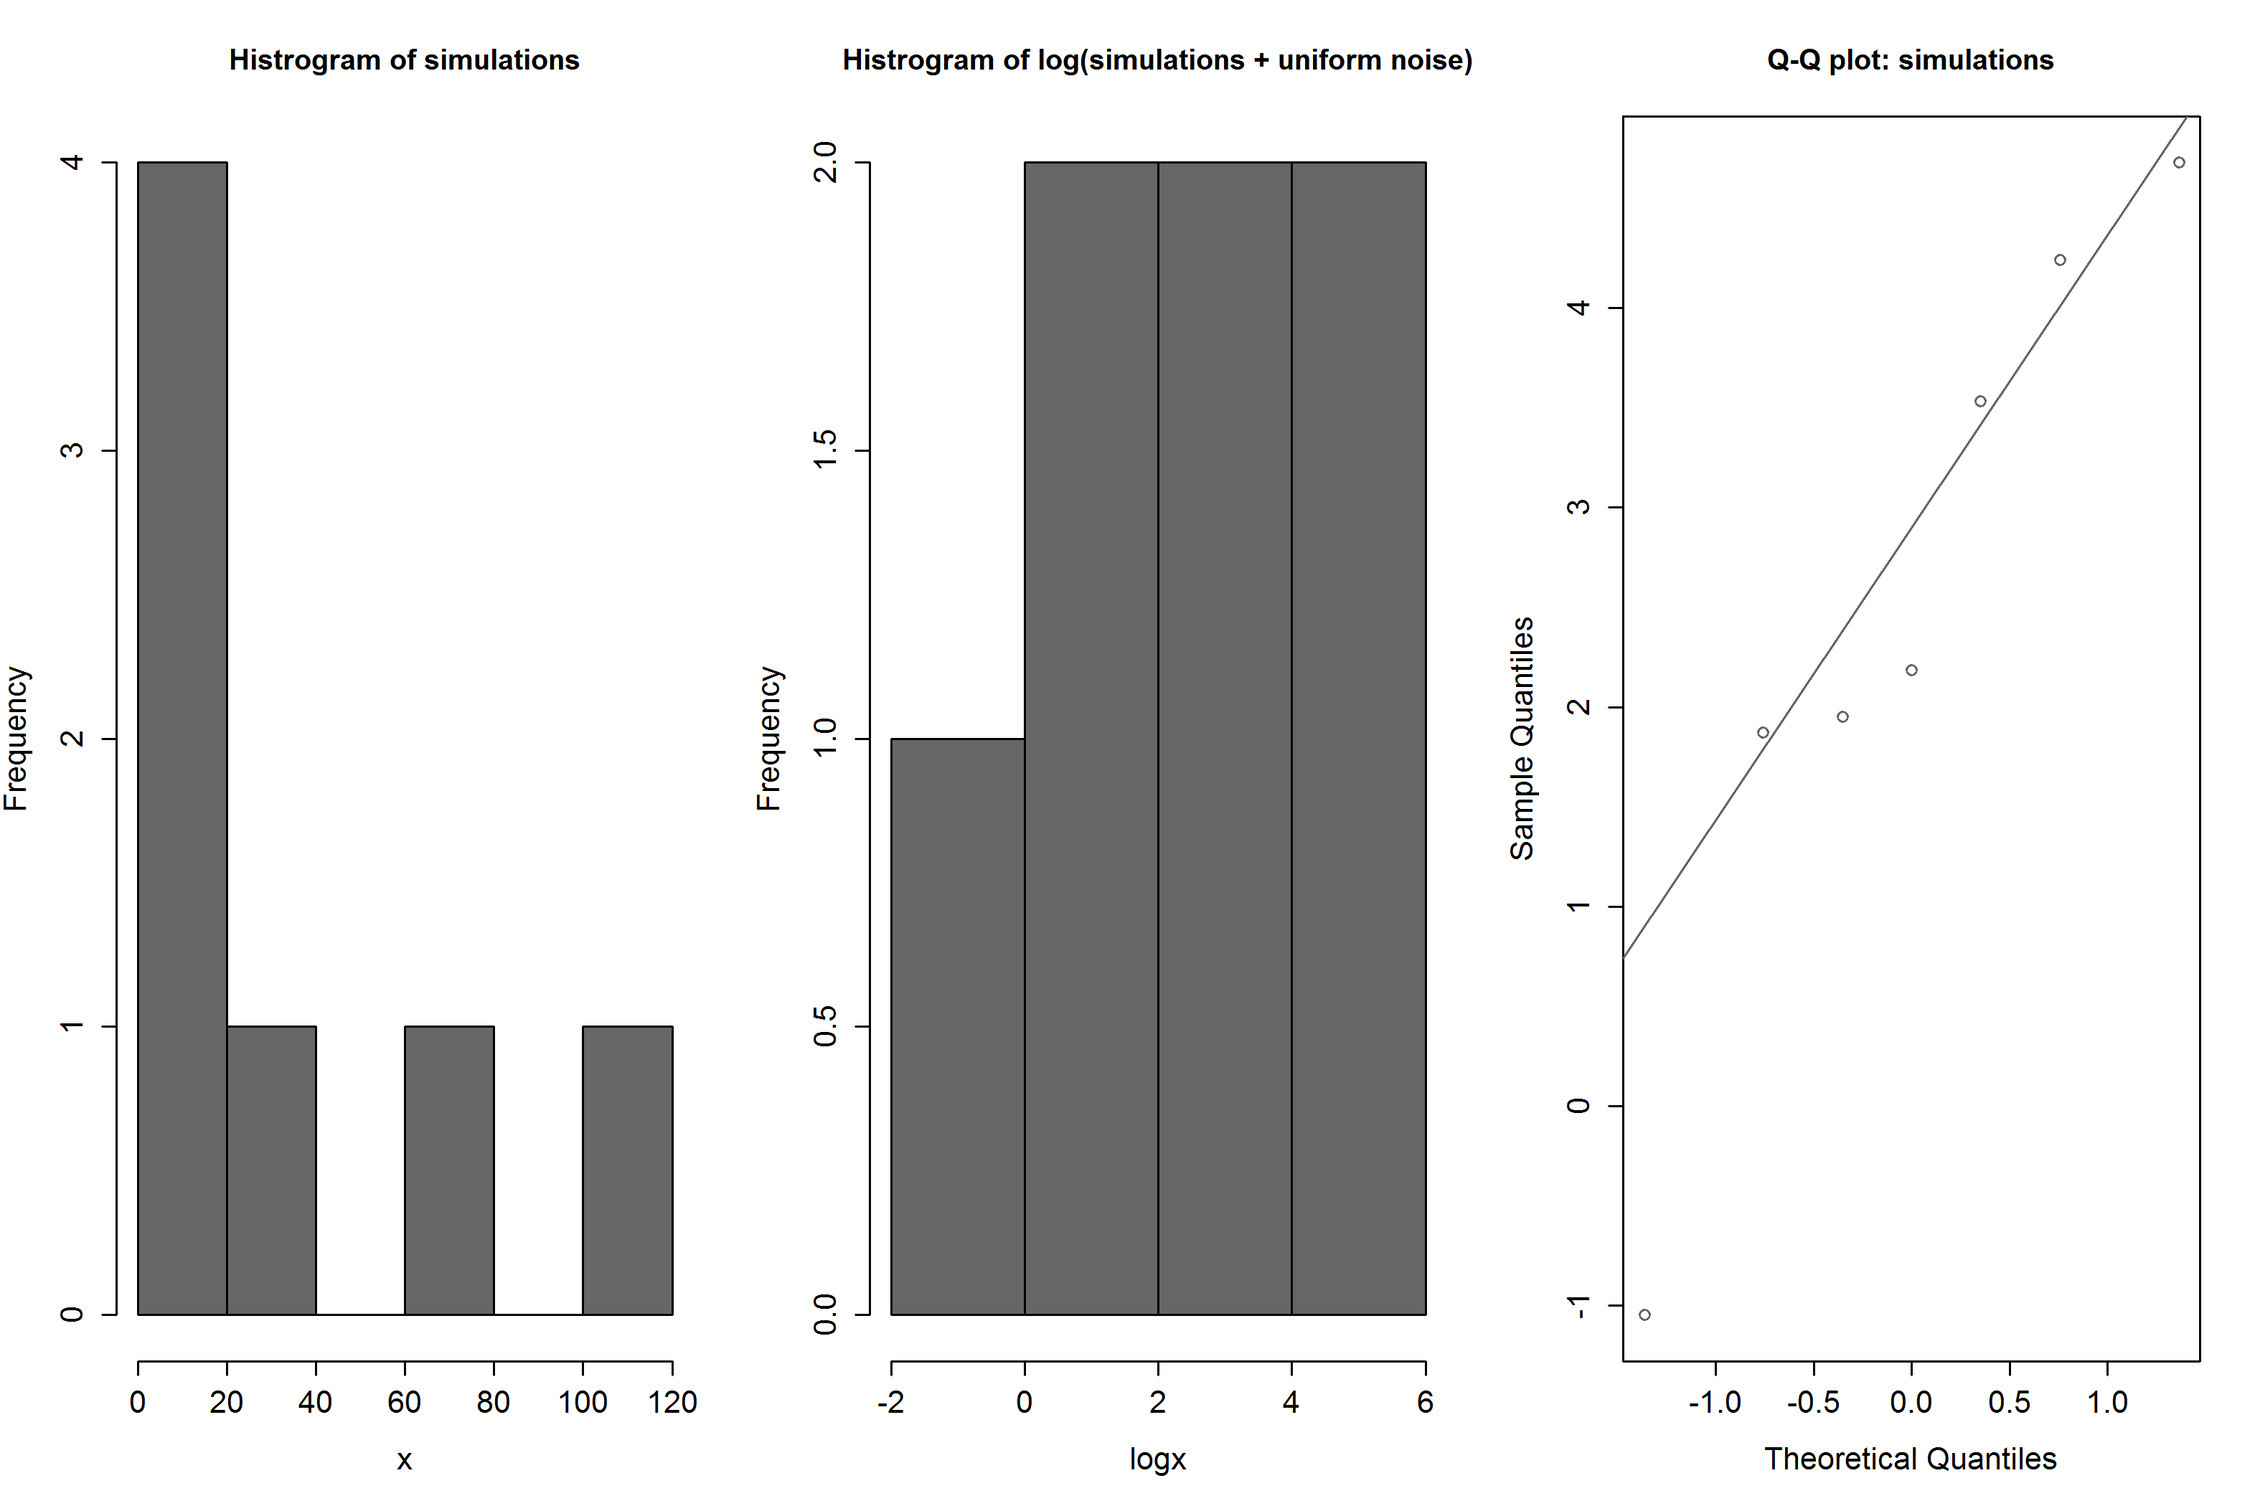
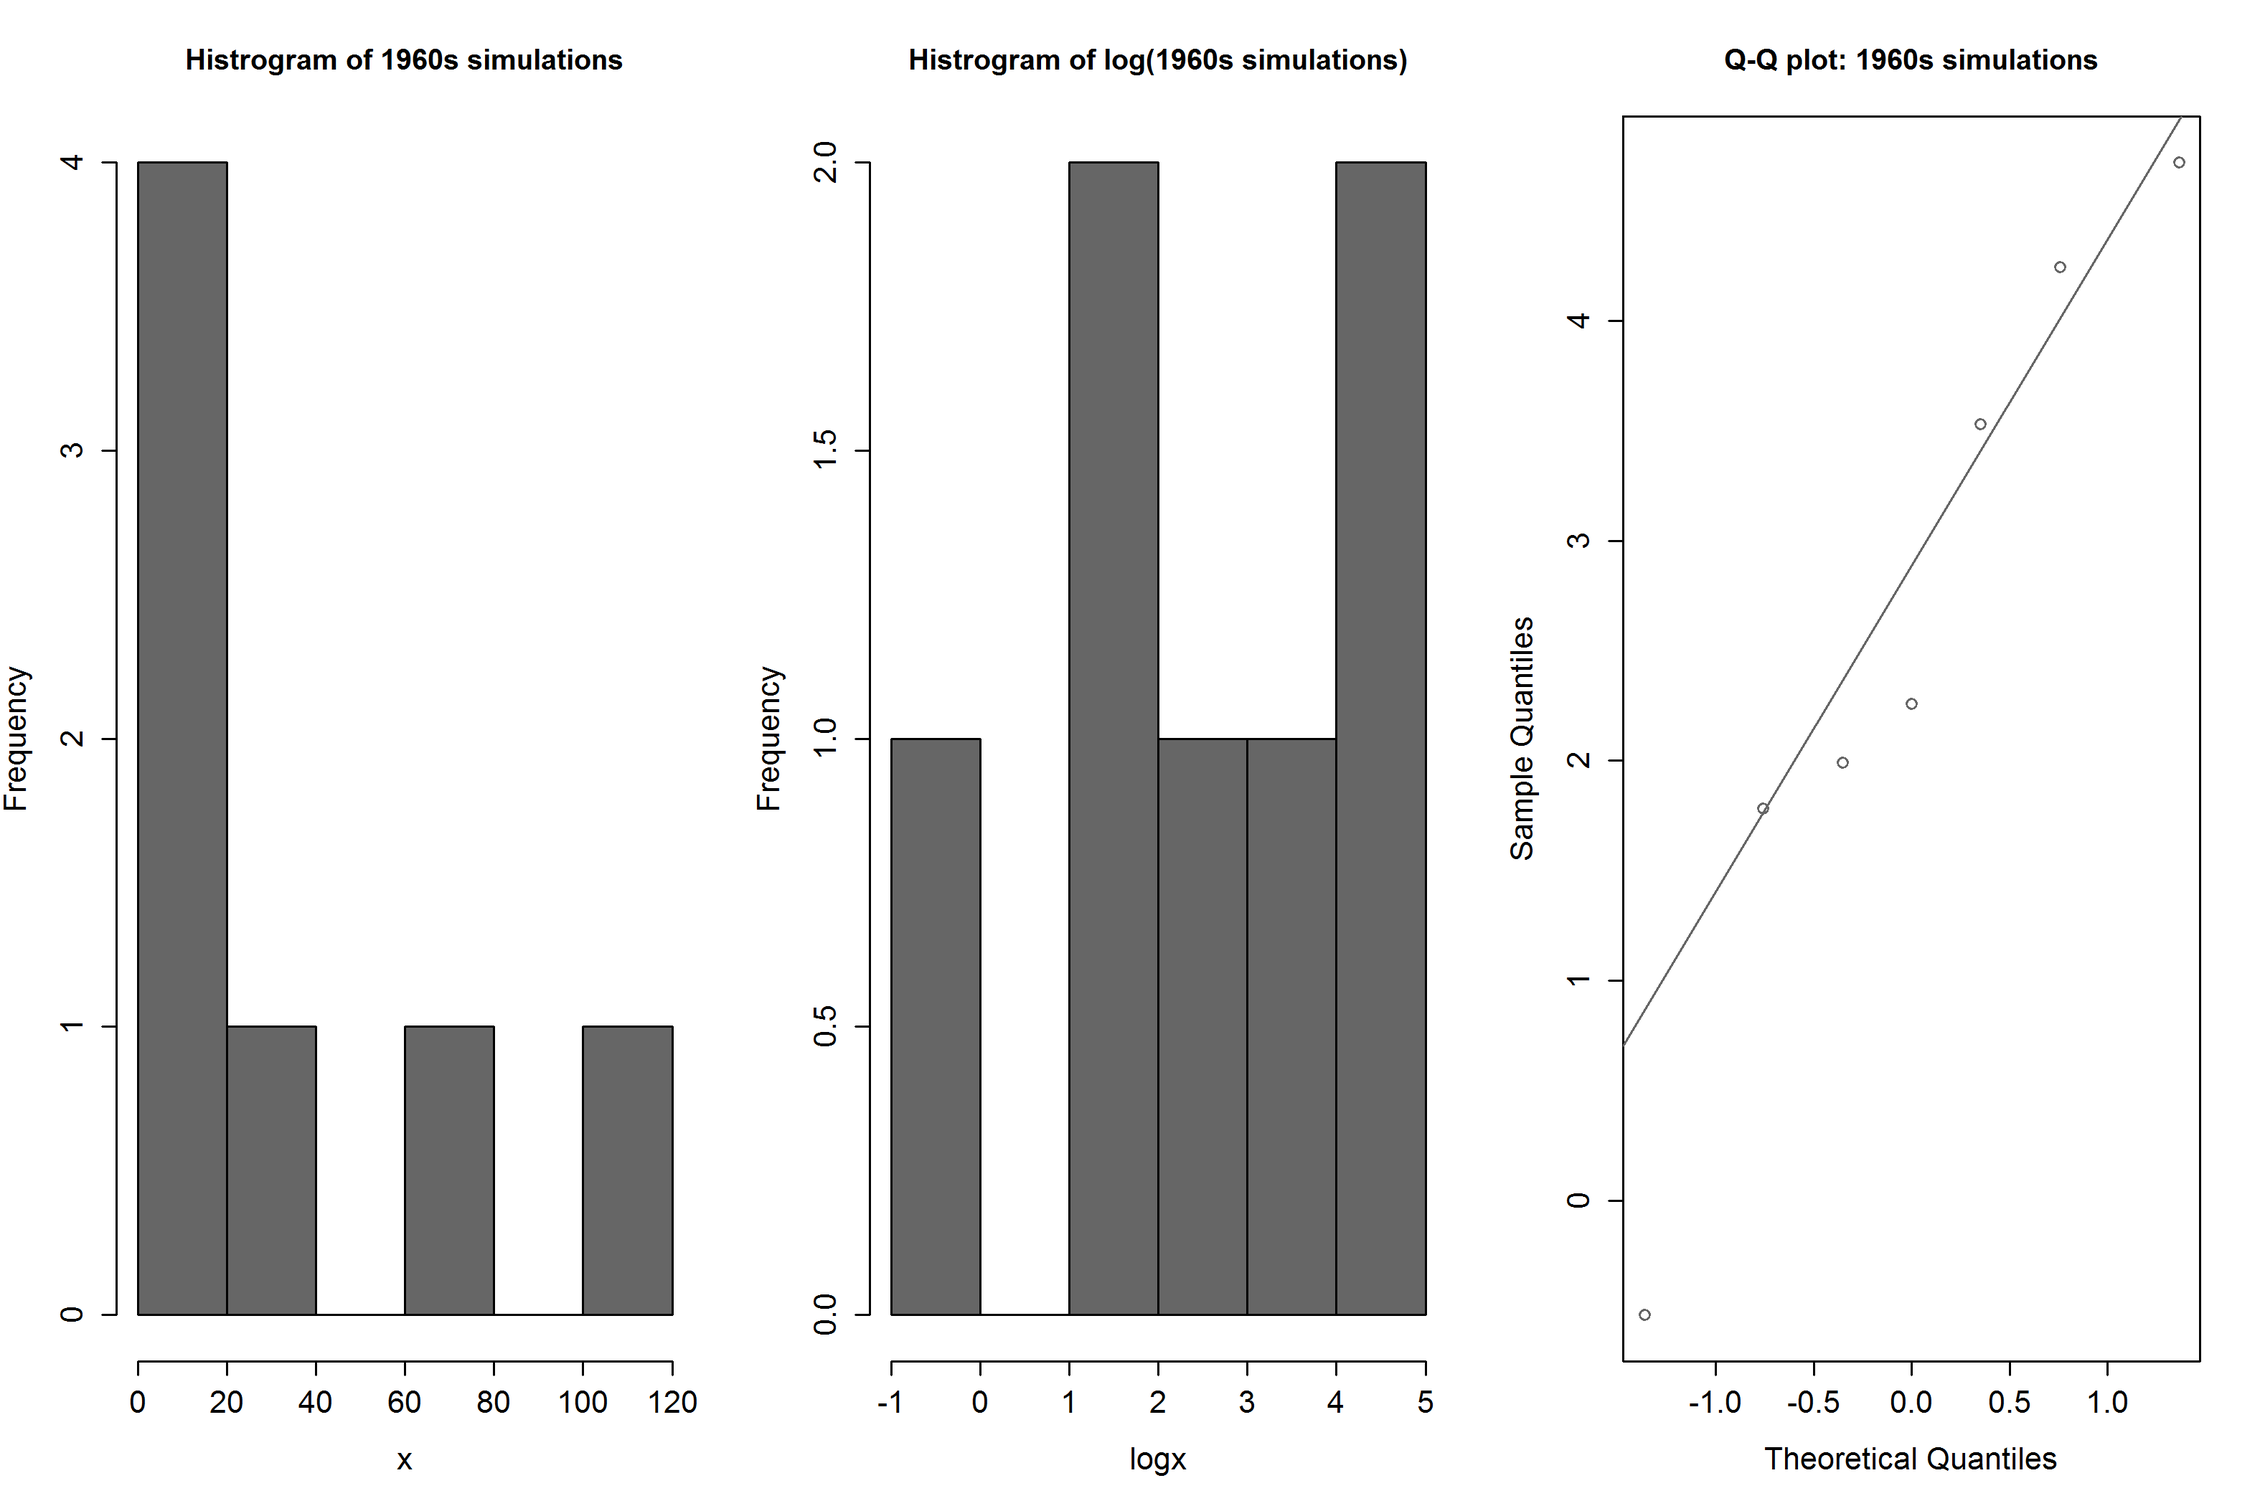
Update docs

diff --git a/fse_eda2.html b/fse_eda2.html
@@ -211,24 +211,23 @@ img {
 <h4>Function for log-normality assessment</h4>
 <pre class="sourceCode r"><code class="sourceCode r"><span class="co"># Functions to assess log-normality of fire size for observed data and a</span>
 <span class="co"># sample simulation replicate</span>
-check_lnorm &lt;-<span class="st"> </span>function(d, <span class="dt">nmax.ad.test =</span> <span class="dv">100</span>, <span class="dt">verbose =</span> <span class="ot">TRUE</span>, <span class="dt">closure =</span> <span class="ot">TRUE</span>, 
-    ...) {
+check_lnorm &lt;-<span class="st"> </span>function(d, <span class="dt">nmax.ad.test =</span> <span class="dv">100</span>, <span class="dt">verbose =</span> <span class="ot">FALSE</span>, <span class="dt">closure =</span> <span class="ot">TRUE</span>, 
+    <span class="dt">period =</span> <span class="st">&quot;1950-2009&quot;</span>, ...) {
     f &lt;-<span class="st"> </span>function() {
         <span class="kw">require</span>(<span class="st">&quot;nortest&quot;</span>)
         dl &lt;-<span class="st"> </span><span class="kw">split</span>(d$FSE, d$Replicate)
         if (<span class="kw">length</span>(dl) ==<span class="st"> </span><span class="dv">2</span>) 
             iters &lt;-<span class="st"> </span><span class="dv">1</span>:<span class="dv">2</span> else if (<span class="kw">names</span>(dl) ==<span class="st"> &quot;Observed&quot;</span>) 
             iters &lt;-<span class="st"> </span><span class="dv">1</span> else iters &lt;-<span class="st"> </span><span class="dv">2</span>
-        id &lt;-<span class="st"> </span><span class="kw">c</span>(<span class="st">&quot;observations&quot;</span>, <span class="st">&quot;simulations&quot;</span>)[iters]
+        id &lt;-<span class="st"> </span><span class="kw">paste</span>(period, <span class="kw">c</span>(<span class="st">&quot;observations&quot;</span>, <span class="st">&quot;simulations&quot;</span>))[iters]
         if (<span class="kw">length</span>(iters) ==<span class="st"> </span><span class="dv">1</span>) 
             iters &lt;-<span class="st"> </span><span class="dv">1</span>
         <span class="kw">layout</span>(<span class="kw">matrix</span>(<span class="dv">1</span>:(<span class="dv">3</span> *<span class="st"> </span><span class="kw">length</span>(iters)), <span class="kw">length</span>(iters), <span class="dt">byrow =</span> T))
         for (i in iters) {
             x &lt;-<span class="st"> </span>dl[[i]]
-            logx &lt;-<span class="st"> </span><span class="kw">log</span>(x +<span class="st"> </span><span class="kw">runif</span>(<span class="kw">length</span>(x), -<span class="fl">0.95</span>, <span class="fl">0.95</span>))
+            logx &lt;-<span class="st"> </span><span class="kw">log</span>(x +<span class="st"> </span><span class="kw">runif</span>(<span class="kw">length</span>(x), -<span class="fl">0.95</span>, <span class="fl">0.95</span>))  <span class="co"># Add uniform noise</span>
             <span class="kw">hist</span>(x, <span class="dt">main =</span> <span class="kw">paste</span>(<span class="st">&quot;Histrogram of&quot;</span>, id[i]), ...)
-            <span class="kw">hist</span>(logx, <span class="dt">main =</span> <span class="kw">paste0</span>(<span class="st">&quot;Histrogram of log(&quot;</span>, id[i], <span class="st">&quot; + uniform noise)&quot;</span>), 
-                ...)
+            <span class="kw">hist</span>(logx, <span class="dt">main =</span> <span class="kw">paste0</span>(<span class="st">&quot;Histrogram of log(&quot;</span>, id[i], <span class="st">&quot;)&quot;</span>), ...)
             <span class="kw">qqnorm</span>(logx, <span class="dt">main =</span> <span class="kw">paste</span>(<span class="st">&quot;Q-Q plot:&quot;</span>, id[i]), ...)
             <span class="kw">qqline</span>(logx, <span class="dt">main =</span> <span class="kw">paste</span>(<span class="st">&quot;Q-Q plot:&quot;</span>, id[i]), ...)
             if (verbose) {
@@ -244,7 +243,8 @@ check_lnorm &lt;-<span class="st"> </span>function(d, <span class="dt">nmax.ad.t
 check_lnorm_dec &lt;-<span class="st"> </span>function(id, d, dec, <span class="dt">i.offset =</span> <span class="dv">1</span>, ...) {
     for (i in <span class="dv">1</span>:<span class="kw">length</span>(dec)) {
         pid &lt;-<span class="st"> </span><span class="kw">paste0</span>(id, letters[i +<span class="st"> </span>i.offset])
-        <span class="kw">assign</span>(pid, <span class="kw">check_lnorm</span>(<span class="kw">subset</span>(d, Decade ==<span class="st"> </span>dec[i]), ...), <span class="dt">pos =</span> <span class="dv">1</span>)
+        <span class="kw">assign</span>(pid, <span class="kw">check_lnorm</span>(<span class="kw">subset</span>(d, Decade ==<span class="st"> </span>dec[i]), <span class="dt">period =</span> dec[i], 
+            ...), <span class="dt">pos =</span> <span class="dv">1</span>)
         <span class="kw">get</span>(pid)()
     }
     <span class="kw">return</span>(<span class="ot">NULL</span>)
@@ -259,70 +259,13 @@ d.sf &lt;-<span class="st"> </span><span class="kw">subset</span>(d, Domain ==<s
 <span class="st">    </span><span class="kw">c</span>(<span class="st">&quot;Observed&quot;</span>, <span class="st">&quot;Rep 0&quot;</span>), <span class="dt">select =</span> <span class="kw">c</span>(<span class="dv">2</span>, <span class="dv">5</span>, <span class="dv">7</span>))
 p02a &lt;-<span class="st"> </span><span class="kw">check_lnorm</span>(d.sf, <span class="dt">col =</span> <span class="st">&quot;gray40&quot;</span>, <span class="dt">cex.lab =</span> <span class="fl">1.3</span>, <span class="dt">cex.axis =</span> <span class="fl">1.3</span>)
 <span class="kw">p02a</span>()</code></pre>
-<pre><code>## 
-##  Anderson-Darling normality test
-## 
-## data:  sample(logx, min(length(logx), nmax.ad.test))
-## A = 0.553, p-value = 0.1438</code></pre>
 <p><img src="fse_eda2_files/figure-html/lnorm_noa_shrub_all-1.png" /></p>
-<pre><code>## 
-##  Anderson-Darling normality test
-## 
-## data:  sample(logx, min(length(logx), nmax.ad.test))
-## A = 0.3384, p-value = 0.4913</code></pre>
 </div>
 <div id="observed-and-sample-replicate-simulation-fire-sizes-by-decade" class="section level4">
 <h4>Observed and sample replicate simulation fire sizes by decade</h4>
 <p>The first replicate was selected.</p>
 <pre class="sourceCode r"><code class="sourceCode r"><span class="kw">check_lnorm_dec</span>(<span class="st">&quot;p02&quot;</span>, d.sf, dec, <span class="dt">col =</span> <span class="st">&quot;gray40&quot;</span>, <span class="dt">cex.lab =</span> <span class="fl">1.3</span>, <span class="dt">cex.axis =</span> <span class="fl">1.3</span>)</code></pre>
-<p><img src="fse_eda2_files/figure-html/lnorm_noa_shrub_decades-1.png" /></p>
-<pre><code>## 
-##  Anderson-Darling normality test
-## 
-## data:  sample(logx, min(length(logx), nmax.ad.test))
-## A = 0.1061, p-value = 0.9908</code></pre>
-<p><img src="fse_eda2_files/figure-html/lnorm_noa_shrub_decades-2.png" /></p>
-<pre><code>## [1] &quot;Sample too small for Anderson-Darling normality test.&quot;</code></pre>
-<pre><code>## 
-##  Anderson-Darling normality test
-## 
-## data:  sample(logx, min(length(logx), nmax.ad.test))
-## A = 0.8393, p-value = 0.02186</code></pre>
-<p><img src="fse_eda2_files/figure-html/lnorm_noa_shrub_decades-3.png" /></p>
-<pre><code>## 
-##  Anderson-Darling normality test
-## 
-## data:  sample(logx, min(length(logx), nmax.ad.test))
-## A = 0.193, p-value = 0.8501</code></pre>
-<pre><code>## 
-##  Anderson-Darling normality test
-## 
-## data:  sample(logx, min(length(logx), nmax.ad.test))
-## A = 0.2803, p-value = 0.5522</code></pre>
-<p><img src="fse_eda2_files/figure-html/lnorm_noa_shrub_decades-4.png" /></p>
-<pre><code>## 
-##  Anderson-Darling normality test
-## 
-## data:  sample(logx, min(length(logx), nmax.ad.test))
-## A = 0.4562, p-value = 0.2138</code></pre>
-<pre><code>## [1] &quot;Sample too small for Anderson-Darling normality test.&quot;</code></pre>
-<p><img src="fse_eda2_files/figure-html/lnorm_noa_shrub_decades-5.png" /></p>
-<pre><code>## 
-##  Anderson-Darling normality test
-## 
-## data:  sample(logx, min(length(logx), nmax.ad.test))
-## A = 0.3408, p-value = 0.4458</code></pre>
-<pre><code>## 
-##  Anderson-Darling normality test
-## 
-## data:  sample(logx, min(length(logx), nmax.ad.test))
-## A = 0.647, p-value = 0.07041</code></pre>
-<p><img src="fse_eda2_files/figure-html/lnorm_noa_shrub_decades-6.png" /></p>
-<pre><code>## 
-##  Anderson-Darling normality test
-## 
-## data:  sample(logx, min(length(logx), nmax.ad.test))
-## A = 0.3189, p-value = 0.4727</code></pre>
+<p><img src="fse_eda2_files/figure-html/lnorm_noa_shrub_decades-1.png" /> <img src="fse_eda2_files/figure-html/lnorm_noa_shrub_decades-2.png" /> <img src="fse_eda2_files/figure-html/lnorm_noa_shrub_decades-3.png" /> <img src="fse_eda2_files/figure-html/lnorm_noa_shrub_decades-4.png" /> <img src="fse_eda2_files/figure-html/lnorm_noa_shrub_decades-5.png" /> <img src="fse_eda2_files/figure-html/lnorm_noa_shrub_decades-6.png" /></p>
 <pre><code>## NULL</code></pre>
 </div>
 </div>

diff --git a/fse_eda3.html b/fse_eda3.html
@@ -215,88 +215,13 @@ d.sf &lt;-<span class="st"> </span><span class="kw">subset</span>(d, Domain ==<s
 <span class="st">    </span><span class="kw">c</span>(<span class="st">&quot;Observed&quot;</span>, <span class="st">&quot;Rep 0&quot;</span>), <span class="dt">select =</span> <span class="kw">c</span>(<span class="dv">2</span>, <span class="dv">5</span>, <span class="dv">7</span>))
 p03a &lt;-<span class="st"> </span><span class="kw">check_lnorm</span>(d.sf, <span class="dt">col =</span> <span class="st">&quot;gray40&quot;</span>, <span class="dt">cex.lab =</span> <span class="fl">1.3</span>, <span class="dt">cex.axis =</span> <span class="fl">1.3</span>)
 <span class="kw">p03a</span>()</code></pre>
-<pre><code>## 
-##  Anderson-Darling normality test
-## 
-## data:  sample(logx, min(length(logx), nmax.ad.test))
-## A = 0.5504, p-value = 0.1525</code></pre>
 <p><img src="fse_eda3_files/figure-html/lnorm_sw_forest_all-1.png" /></p>
-<pre><code>## 
-##  Anderson-Darling normality test
-## 
-## data:  sample(logx, min(length(logx), nmax.ad.test))
-## A = 2.2632, p-value = 8.894e-06</code></pre>
 </div>
 <div id="observed-and-sample-replicate-simulation-fire-sizes-by-decade-1" class="section level4">
 <h4>Observed and sample replicate simulation fire sizes by decade</h4>
 <p>The first replicate was selected.</p>
 <pre class="sourceCode r"><code class="sourceCode r"><span class="kw">check_lnorm_dec</span>(<span class="st">&quot;p03&quot;</span>, d.sf, dec, <span class="dt">col =</span> <span class="st">&quot;gray40&quot;</span>, <span class="dt">cex.lab =</span> <span class="fl">1.3</span>, <span class="dt">cex.axis =</span> <span class="fl">1.3</span>)</code></pre>
-<pre><code>## 
-##  Anderson-Darling normality test
-## 
-## data:  sample(logx, min(length(logx), nmax.ad.test))
-## A = 0.6595, p-value = 0.08272</code></pre>
-<p><img src="fse_eda3_files/figure-html/lnorm_sw_forest_decades-1.png" /></p>
-<pre><code>## 
-##  Anderson-Darling normality test
-## 
-## data:  sample(logx, min(length(logx), nmax.ad.test))
-## A = 4.8251, p-value = 4.978e-12</code></pre>
-<pre><code>## 
-##  Anderson-Darling normality test
-## 
-## data:  sample(logx, min(length(logx), nmax.ad.test))
-## A = 0.489, p-value = 0.2174</code></pre>
-<p><img src="fse_eda3_files/figure-html/lnorm_sw_forest_decades-2.png" /></p>
-<pre><code>## 
-##  Anderson-Darling normality test
-## 
-## data:  sample(logx, min(length(logx), nmax.ad.test))
-## A = 2.9442, p-value = 1.891e-07</code></pre>
-<pre><code>## 
-##  Anderson-Darling normality test
-## 
-## data:  sample(logx, min(length(logx), nmax.ad.test))
-## A = 0.2872, p-value = 0.6144</code></pre>
-<p><img src="fse_eda3_files/figure-html/lnorm_sw_forest_decades-3.png" /></p>
-<pre><code>## 
-##  Anderson-Darling normality test
-## 
-## data:  sample(logx, min(length(logx), nmax.ad.test))
-## A = 2.1299, p-value = 1.894e-05</code></pre>
-<pre><code>## 
-##  Anderson-Darling normality test
-## 
-## data:  sample(logx, min(length(logx), nmax.ad.test))
-## A = 0.3724, p-value = 0.4137</code></pre>
-<p><img src="fse_eda3_files/figure-html/lnorm_sw_forest_decades-4.png" /></p>
-<pre><code>## 
-##  Anderson-Darling normality test
-## 
-## data:  sample(logx, min(length(logx), nmax.ad.test))
-## A = 1.6118, p-value = 0.0003597</code></pre>
-<pre><code>## 
-##  Anderson-Darling normality test
-## 
-## data:  sample(logx, min(length(logx), nmax.ad.test))
-## A = 0.4013, p-value = 0.354</code></pre>
-<p><img src="fse_eda3_files/figure-html/lnorm_sw_forest_decades-5.png" /></p>
-<pre><code>## 
-##  Anderson-Darling normality test
-## 
-## data:  sample(logx, min(length(logx), nmax.ad.test))
-## A = 2.2208, p-value = 1.131e-05</code></pre>
-<pre><code>## 
-##  Anderson-Darling normality test
-## 
-## data:  sample(logx, min(length(logx), nmax.ad.test))
-## A = 0.9942, p-value = 0.01219</code></pre>
-<p><img src="fse_eda3_files/figure-html/lnorm_sw_forest_decades-6.png" /></p>
-<pre><code>## 
-##  Anderson-Darling normality test
-## 
-## data:  sample(logx, min(length(logx), nmax.ad.test))
-## A = 1.7813, p-value = 0.0001372</code></pre>
+<p><img src="fse_eda3_files/figure-html/lnorm_sw_forest_decades-1.png" /> <img src="fse_eda3_files/figure-html/lnorm_sw_forest_decades-2.png" /> <img src="fse_eda3_files/figure-html/lnorm_sw_forest_decades-3.png" /> <img src="fse_eda3_files/figure-html/lnorm_sw_forest_decades-4.png" /> <img src="fse_eda3_files/figure-html/lnorm_sw_forest_decades-5.png" /> <img src="fse_eda3_files/figure-html/lnorm_sw_forest_decades-6.png" /></p>
 <pre><code>## NULL</code></pre>
 <pre class="sourceCode r"><code class="sourceCode r"><span class="kw">dev.off</span>()</code></pre>
 <pre><code>## null device 
